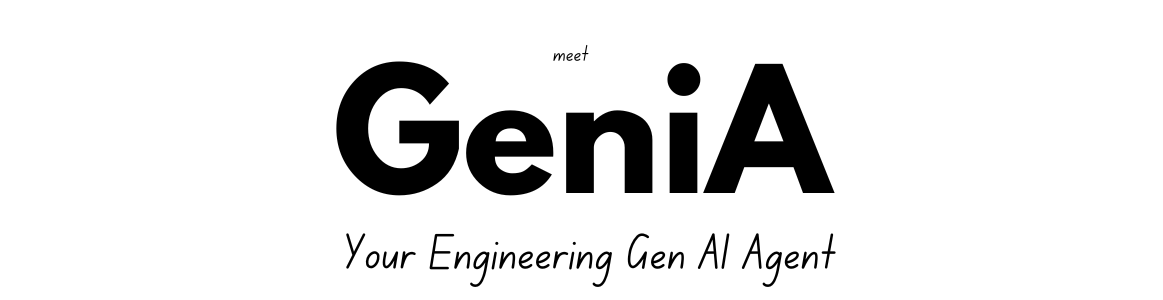
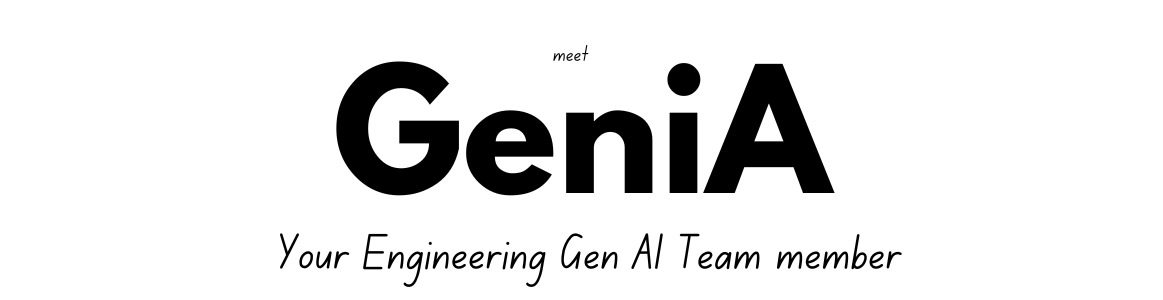
update readme

diff --git a/README.md b/README.md
@@ -8,9 +8,9 @@
 </p>
 <br>
 <p>
-Imagine a ChatGPT integrated with your team's tools and APIs, capable of executing tasks and handling queries independently, contributing to time and energy efficiency.
-<br><br>
-GeniA is an AI assistant developed for engineering tasks. GeniA is a dynamic, intuitive tool capable of managing tasks in your team's Slack channel.
+Imagine a new AI team member familiar with your team's tools and APIs, both industry latest best practices, yet knows how you run things on your team. it is capable of learning and executing tasks for you, making more impact. faster.
+<br>
+GeniA is intuitive yet powerful, a quick learner and right in your team's Slack channel.
 </p>
 
 ## 📝 Table of Contents
@@ -38,6 +38,14 @@ Built with love by engineers for engineers, our goal is to help teams harness th
 
 we have set ourselves the goal of building a production-grade software right off the bat. Now, you can start working with GeniA in production by installing the GeniA container, integrate it into your team's Slack channel, and let it land on its feet running.
 
+### Project philosopy
+
+"... And, a human on a bicycle, blew the condor away, completely off the top of the charts. that’s what a computer is to me. What a computer is to me is it’s the most remarkable tool that we’ve ever come up with"
+
+-*someone*
+
+Genia can ride a bicycle.
+
 ## Architecture
 
 <p float="center">
@@ -45,7 +53,7 @@ we have set ourselves the goal of building a production-grade software right off
 </p>
 <br/>
 
-## Imagine a virtual agent empowering you with:
+## Imagine a new AI team member helping you with:
 
 #### Research & Development Scenarios
 
@@ -94,7 +102,6 @@ Scaling services, managing EC2 instances and cron jobs, coding utilities.
 </p>
 
 ### Many more great examples [can be found here](./media/)
-
 
 ## Getting Started
 
